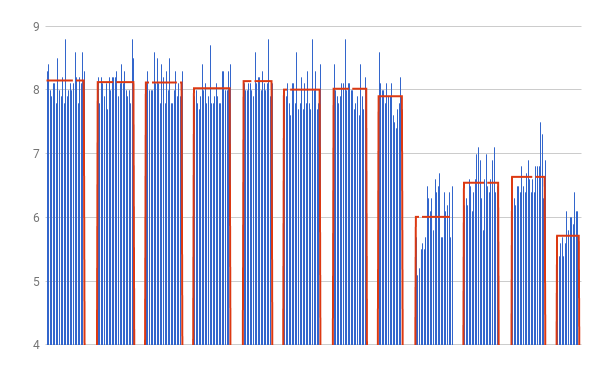
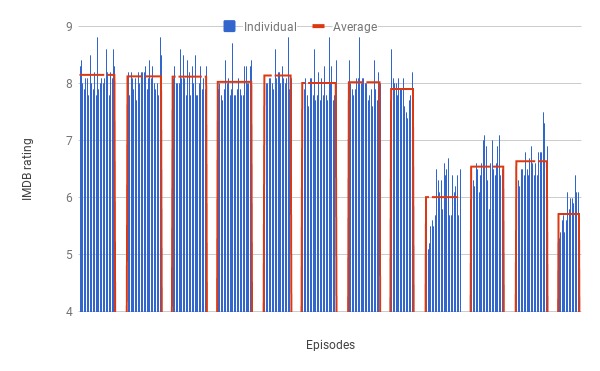
Add ToDos, add legends in charts
Side by side images

Side by side images-2

Side by side images-3

diff --git a/scrape_views.py b/scrape_views.py
@@ -157,5 +157,5 @@ def plotting(views, average):
 
 if __name__ == '__main__':
 	# views, average = wikiscrape('https://en.wikipedia.org/wiki/List_of_Two_and_a_Half_Men_episodes')
-	views, average = imdbscrape('http://www.imdb.com/title/tt0369179/')
+	views, average = imdbscrape('http://www.imdb.com/title/tt1439629/')
 	# plotting(views, average)

diff --git a/README.md b/README.md
@@ -22,19 +22,20 @@ I wanted to observe if there was any pattern here. Due to lack of proper existin
 
 The results are being rendered via Google sheets charts, because they're interactive. Clicking on a certain image would help, because I couldn't embed google charts in iframes.
 
+The first chart plots views for each episode across seasons. The second chart plots views per episode and average season views.
+
 ### TV views
 
-[![](images/views_barchart.png)](https://docs.google.com/spreadsheets/d/e/2PACX-1vSYgcXvLA7HYxnFTLUMdW3dkvPFl9HE2ulO0qObS2Y6xsIZq1tlIabu-p1LG-2X_lBYHIZOvSrOmtpR/pubchart?oid=743901098&amp;format=interactive)
-
-[![](images/views_averaged.png)](https://docs.google.com/spreadsheets/d/e/2PACX-1vSYgcXvLA7HYxnFTLUMdW3dkvPFl9HE2ulO0qObS2Y6xsIZq1tlIabu-p1LG-2X_lBYHIZOvSrOmtpR/pubchart?oid=1825169905&amp;format=interactive)
+ . | .
+ :-: | :-:
+[![](images/views_barchart.png)](https://docs.google.com/spreadsheets/d/e/2PACX-1vSYgcXvLA7HYxnFTLUMdW3dkvPFl9HE2ulO0qObS2Y6xsIZq1tlIabu-p1LG-2X_lBYHIZOvSrOmtpR/pubchart?oid=743901098&amp;format=interactive) | [![](images/views_averaged.png)](https://docs.google.com/spreadsheets/d/e/2PACX-1vSYgcXvLA7HYxnFTLUMdW3dkvPFl9HE2ulO0qObS2Y6xsIZq1tlIabu-p1LG-2X_lBYHIZOvSrOmtpR/pubchart?oid=1321595076&amp;format=interactive)
 
 
 ### IMDB
 
-[![](images/imdb_barchart.png)](https://docs.google.com/spreadsheets/d/e/2PACX-1vSYgcXvLA7HYxnFTLUMdW3dkvPFl9HE2ulO0qObS2Y6xsIZq1tlIabu-p1LG-2X_lBYHIZOvSrOmtpR/pubchart?oid=1262982098&amp;format=interactive)
-
-
-[![](images/imdb_averaged.png)](https://docs.google.com/spreadsheets/d/e/2PACX-1vSYgcXvLA7HYxnFTLUMdW3dkvPFl9HE2ulO0qObS2Y6xsIZq1tlIabu-p1LG-2X_lBYHIZOvSrOmtpR/pubchart?oid=678815137&amp;format=interactive)
+ . | .
+ :-: | :-:
+[![](images/imdb_barchart.png)](https://docs.google.com/spreadsheets/d/e/2PACX-1vSYgcXvLA7HYxnFTLUMdW3dkvPFl9HE2ulO0qObS2Y6xsIZq1tlIabu-p1LG-2X_lBYHIZOvSrOmtpR/pubchart?oid=1262982098&amp;format=interactive) | [![](images/imdb_averaged.png)](https://docs.google.com/spreadsheets/d/e/2PACX-1vSYgcXvLA7HYxnFTLUMdW3dkvPFl9HE2ulO0qObS2Y6xsIZq1tlIabu-p1LG-2X_lBYHIZOvSrOmtpR/pubchart?oid=72754234&amp;format=interactive)
 
 The [dataset](https://docs.google.com/spreadsheets/d/11fuBypPfB_egoWfZCQr2TbtXgiYKT1k8ZGmih_Cgwsg) is available here for viewing.
 
@@ -42,9 +43,14 @@ The [dataset](https://docs.google.com/spreadsheets/d/11fuBypPfB_egoWfZCQr2TbtXgi
 
 Charlie Sheen was one of the male lead for first 8 seasons, who was replaced by Ashton Kutcher. The script writing went horrible, and some correlation in the data was expected.
 
-The data confers. Observing the number of views, S11 and S12 took a big hit. Seeing IMDB, which mostly confers to scriptwriting, Season 9 onwards became really bad, so Ashton wasn't really to blame.
+The data confers. Observing the number of views, S11 and S12 took a big hit. S09E01 saw a change in the lead thus the spike in views. It was expected to see a spike in views every season finale, but that was not necessarily true here. Seeing IMDB, which mostly confers to scriptwriting, Season 9 onwards became really bad, so Ashton wasn't really to blame.
 
-The second graph in each case has 2 plots. Individual ratings(blue) and season average ratings(red).
+## ToDos
+
+- [ ] Scrape number of seasons from wikipedia page.
+- [ ] Make show urls dynamic. (Search wikipedia page and imdb page only by knowing show name)
+- [ ] Print details of episode / movie playing in default video player, akin to x-ray from Amazon Prime.
+- [ ] Tests! (Works with other series, but need to detect cornercases)
 
 ## Licencse
 
